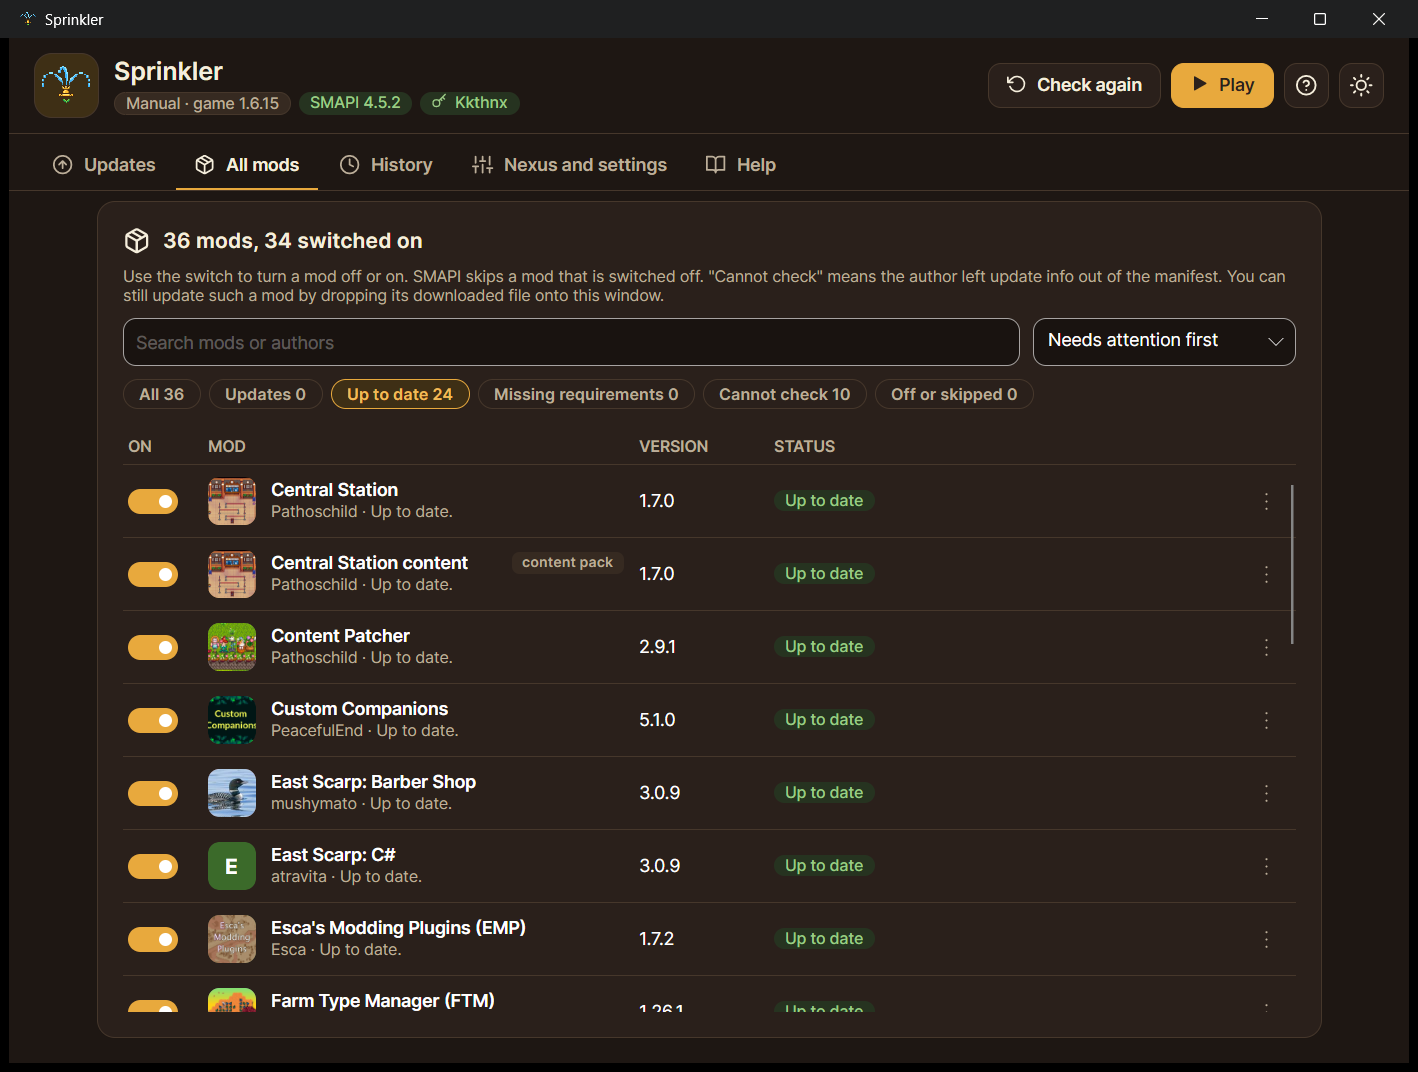
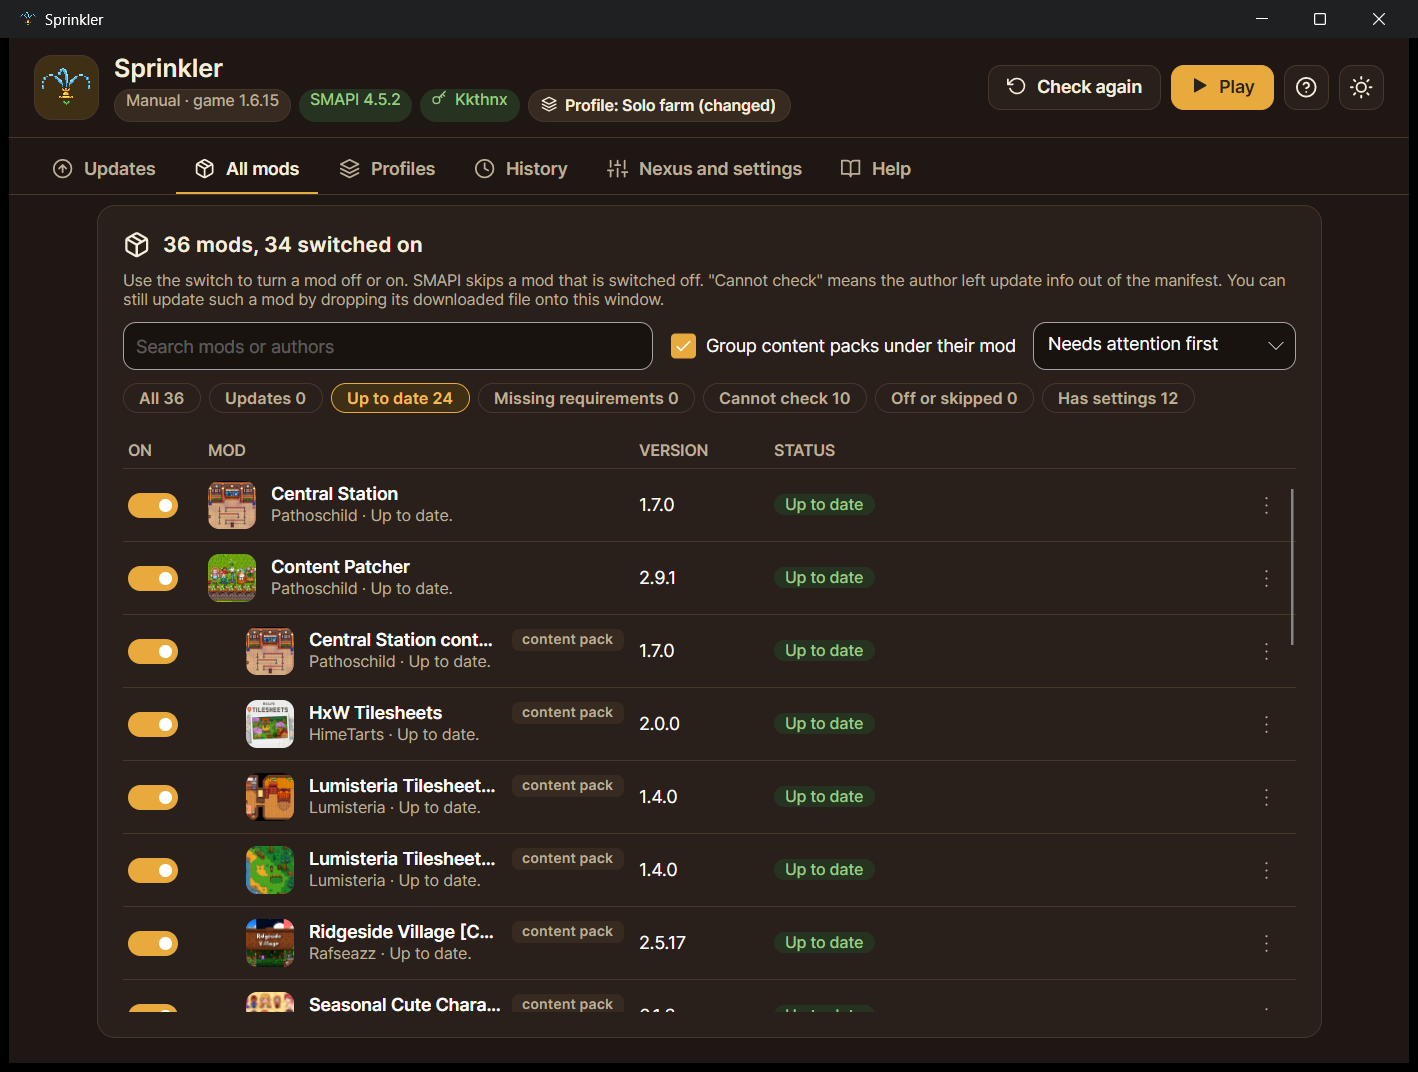
Document profiles, notes and removal; refresh screenshots
The README, changelog, security notes, architecture page and
contributing guide describe profiles, shared profile files, removal with
undo, notes and endorsing, and the headless UI tests. The in-app tour
and FAQ gain a profiles step and answers about profiles and getting a
removed mod back. Screenshots are retaken from the trimmed build, with
the Profiles tab and the grouped mod list added.

diff --git a/src/Sprinkler/ViewModels/Content.cs b/src/Sprinkler/ViewModels/Content.cs
@@ -15,7 +15,8 @@ internal static class Content
         new TourStep("package", "1. It checks for you", "On launch the app reads your Mods folder and asks smapi.io which mods have newer versions. Nothing is changed during the check."),
         new TourStep("arrowup", "2. You choose", "Every update has a card. Tick the ones you want. The source buttons show where the file comes from, and \"Automatic\" ones need nothing from you."),
         new TourStep("download", "3. Press Update", "Mods that need a click open on Nexus a few at a time. When the file lands in Downloads, the app installs it. Every mod is backed up first."),
-        new TourStep("shield", "Undo any time", "History has an Undo button for every change. When you are done, press Play to start the game through SMAPI."),
+        new TourStep("layers", "Profiles for different games", "Save which mods are switched on as a profile, for example solo, co-op or testing, and switch in one click. Share one with a friend as a small file."),
+        new TourStep("shield", "Undo any time", "History has an Undo button for every change, even removing a mod. When you are done, press Play to start the game through SMAPI."),
         new TourStep("key", "Optional: connect Nexus", "A free Nexus key lets the app pick the exact file and show what changed. With Premium it downloads by itself. You will find it under Nexus and settings."),
     };
 
@@ -26,7 +27,9 @@ internal static class Content
         new QA("What does \"Cannot check\" mean?", "The mod author did not put update information in the mod's manifest, so there is nothing to look up. You can still update such a mod: download it yourself and drop the .zip onto this window."),
         new QA("What is a \"missing required mod\"?", "Some mods need a framework mod, such as Content Patcher or SpaceCore. If it is not installed, SMAPI skips the mod without a clear message. The app finds these and offers to install them."),
         new QA("Where are my backups?", $"In the backups folder inside {dataDir}. The History tab lists them with an Undo button, and the app keeps the newest five per mod."),
-        new QA("Will it change my settings or saves?", "No. Your config.json files are kept when a mod is updated, and save games are never touched."),
+        new QA("Will it change my settings or saves?", "No. Your config.json files are kept when a mod is updated, and save games are never touched. The one exception is a profile with \"keeps its own mod settings\" turned on, which puts back the settings it saved for that profile when you switch to it."),
+        new QA("What is a profile?", "A saved list of which mods are switched on, for example one for solo play and one for co-op. Switching only adds or removes the leading dot on a mod's folder name, which is how SMAPI skips a mod, so nothing is moved or deleted. A shared profile lists mods, names and where to get them, never your settings or folders."),
+        new QA("Can I get a removed mod back?", "Yes. Removing a mod saves a backup of its folder first, and the removal appears in History with an Undo button that restores it with its settings."),
         new QA("How do I remove the app?", $"Delete the program and the folder {dataDir}. If you turned on \"Let this app handle Nexus links\" or added the app to your menu, turn those off first under Nexus and settings."),
     };
 

diff --git a/docs/ARCHITECTURE.md b/docs/ARCHITECTURE.md
@@ -43,6 +43,10 @@ The other options were ruled out on evidence:
 
 The palette (loam, harvest gold, parchment, sprout, barn red) has a light and a dark variant in `Theme/Palette.axaml`. `ContrastTests` reads that file and checks that every text and background pair used by the app meets WCAG AA (4.5 : 1) in both themes, so a colour change that breaks readability fails the build. Icons are drawn as vector paths and take the colour of the text around them.
 
+## Profiles
+
+A profile is a list of mod IDs. Switching renames mod folders by adding or removing the leading dot, which is the rule SMAPI itself uses to skip a mod. That choice has three effects: nothing is moved out of the Mods folder, nothing needs special permissions (no links, no elevated rights), and switching back is exact. Before a switch it turns on whatever the chosen mods require, and anything a profile lists but is not installed is fed into the same missing-mod flow that the update check already uses, so it appears under Updates as an install. With "keep each profile's settings" on, every mod's `config.json` is saved into the profile when leaving it and written back when entering, and a copy of the current settings is saved first so the first switch cannot lose anything. A shared profile file contains IDs, names, versions and update keys only, is size limited, and every entry is checked when it is read.
+
 ## Mod pictures
 
 `ModArtStore` fetches each mod's picture once and keeps it on disk for two weeks (three days when a mod has none). Nexus mod pages expose a `picture_url` through the API the person's own key already uses, GitHub mods use the owner's avatar, and everything else shows a steady coloured initial. Only bytes that start like a PNG, JPEG, GIF or WebP are stored, files over 2 MB are refused, the final address after redirects must still be on an allowed site, and a rate limit pauses fetching for half an hour. Nothing about updating depends on pictures.
@@ -73,6 +77,7 @@ Other decisions taken from SMAPI's behavior, not guessed:
 - Unit and integration tests run the whole update flow against fake local servers for SMAPI, Nexus, CurseForge and GitHub, including the mod picture cache.
 - The Linux and macOS path logic takes the home folder and operating system as parameters, so tests run it on any system with fake folders.
 - The .NET platform-compatibility analyzer is on, so calling a Windows-only API outside a guard fails the build.
+- The window is tested without a screen: Avalonia's headless support (which needs xunit v3) opens the real window on every tab and drives the real view models through the same commands the buttons use, including dialogs, file pickers and profile switching.
 - CI runs the tests on Windows and Ubuntu, publishes both builds, and on Ubuntu runs the published binary's `--check` against a fake game folder.
 
 ## What is not verified

diff --git a/README.md b/README.md
@@ -53,6 +53,16 @@ You can also drag any mod `.zip`, `.7z` or `.rar` onto the window. Sprinkler sho
 
 It also finds required mods that are missing (the ones SMAPI skips without a clear message) and offers to install them. After you play, it reads SMAPI's own log and tells you which mods failed to load and why, in plain words. You can switch any mod off or on from the All mods tab using SMAPI's folder-name rule (a folder starting with a dot is skipped), and the app warns you first if other mods need it.
 
+## Profiles, notes and more
+
+- **Profiles.** Save which mods are switched on as a named profile (solo, co-op, testing) and switch between them in a click. Switching only adds or removes the leading dot on a mod's folder, the rule SMAPI itself uses, so nothing is moved or deleted and switching back is exact. It also turns on whatever the chosen mods need. An optional setting keeps each profile's own `config.json` files, with a copy of your current settings saved before the first switch.
+- **Share a profile.** Save a profile as a small file that lists mods, versions and where to get them (never your settings or folders). When a friend opens it, the mods they do not have show up under Updates as installs.
+- **Remove with undo.** Removing a mod backs up its folder first and shows it in History with an Undo button that brings it back with its settings.
+- **Notes and endorsing.** Keep a private note on any mod, open its settings file, and endorse mods on Nexus from the app (through your own key).
+- **A tidier list.** Content packs sit under the mod they belong to, and a filter finds the mods that have settings.
+
+![Profiles](docs/screenshots/profiles-light.png)
+
 ## Speed
 
 Measured on a Windows 11 machine with a real 36-mod folder, using the published single file: the download is about 24 MB (Windows and Linux alike), memory is about 145 MB while the window is open, idle CPU is effectively zero, and the full update check finishes in about 1 second. [docs/ARCHITECTURE.md](docs/ARCHITECTURE.md) explains why Sprinkler is built this way and what the alternatives cost.

diff --git a/CHANGELOG.md b/CHANGELOG.md
@@ -17,6 +17,9 @@ First public build.
 - First-run tour, built-in help and FAQ, light and dark looks that follow your system, and a Report a problem button that copies details for an issue.
 - Reads SMAPI's log from your last game session and lists the mods it skipped, with SMAPI's reason and what to do about it.
 - Switch a mod off or on from the All mods tab. A warning lists any mods that need it.
+- Profiles: save which mods are switched on, switch between profiles in a click, share a profile as a small file, and optionally keep each profile's own mod settings. Mods a shared profile lists but you do not have appear under Updates as installs.
+- Remove a mod with a backup and an Undo button in History. Keep private notes on mods, open a mod's settings file, and endorse mods on Nexus.
+- Content packs are shown under the mod they belong to, and a Has settings filter finds mods with a config.json.
 - On Linux, adds itself to the application menu with an icon (`--install-shortcut` or a button in settings), and finds mods whose manifest is spelled `Manifest.json`, as SMAPI does there.
 - Every text and background colour pair meets the WCAG AA contrast ratio of 4.5 to 1 in both themes, and a test keeps it that way.
 - About 24 MB to download and about 145 MB of memory in use.

diff --git a/CONTRIBUTING.md b/CONTRIBUTING.md
@@ -36,7 +36,7 @@ Set `SPRINKLER_DATA` to a temporary folder to keep settings, history, backups an
 | --- | --- |
 | `src/Sprinkler.Core` | Everything that is not UI: scanning mods, version rules, the SMAPI, Nexus, CurseForge and GitHub clients, the installer with backup and undo, mod pictures, and `UpdateService`, which ties them together and produces a typed `StateSnapshot`. |
 | `src/Sprinkler` | The Avalonia app. `ViewModels` turn snapshots into what the screens show, `Views` are the screens, `Theme` holds the palette and control styles, `Controls` has the icon control. |
-| `tests/Sprinkler.Tests` | Unit tests, app logic tests, a contrast check of the palette, and integration tests that run the whole update flow against a fake local server. |
+| `tests/Sprinkler.Tests` | Unit tests, app logic tests, a contrast check of the palette, integration tests that run the whole update flow against a fake local server, and headless UI tests that open the real window and press the real commands (xunit v3). |
 
 A new value on screen needs three small steps: add it to `UpdateService.Snapshot()` (and `Snapshot.cs`), expose it on the right view model, and bind it in the XAML. Compiled bindings are on, so a typo fails the build instead of showing a blank.
 

diff --git a/SECURITY.md b/SECURITY.md
@@ -10,6 +10,7 @@ Please do not open a public issue for a security problem. Use GitHub's private v
 - **Archives.** Downloaded `.zip`, `.7z` and `.rar` files are treated as untrusted. Entries with absolute paths, `..` segments, invalid names or duplicate names are rejected, file counts and sizes are capped, and the mod ID inside must match the mod being updated.
 - **Your Nexus key.** It is stored with the best place each system offers (Windows DPAPI for the current user, or the desktop keyring or a mode-600 file on Linux), sent only to the Nexus API, and left out of the problem report.
 - **Your network.** The app opens no listening port. A second copy of the app talks to the first through a local pipe that only the current user can open. Web links are opened only on a short allow-list of sites over https.
+- **Shared profiles.** A profile file lists mod IDs, names, versions and where to get them. It is size limited, its entries are checked, and opening one only creates a saved list: nothing is installed or switched until you choose to.
 - **Mod pictures.** Downloaded pictures are stored only when the bytes really are an image, under 2 MB, from an allowed site (also after redirects).
 
 ## Out of scope
